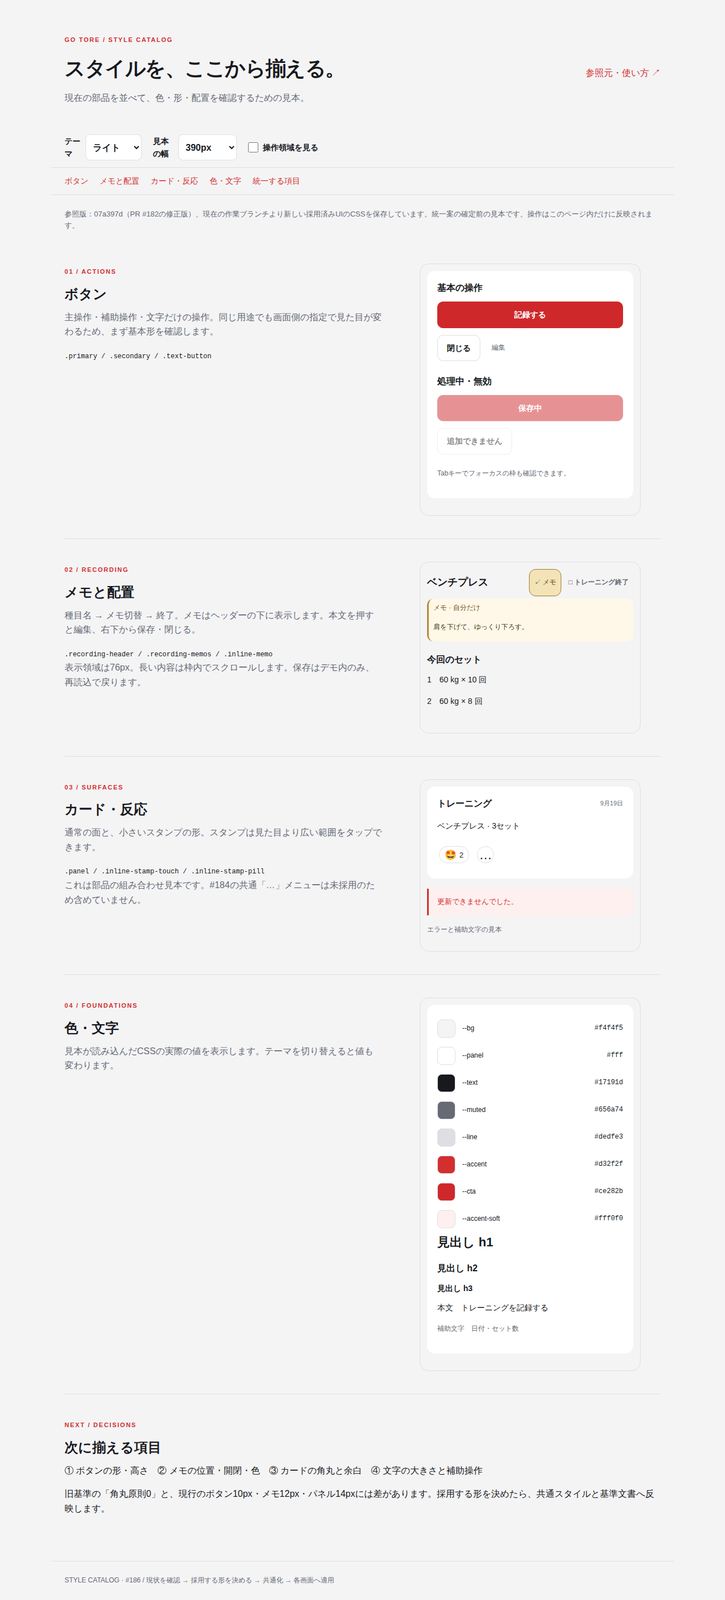
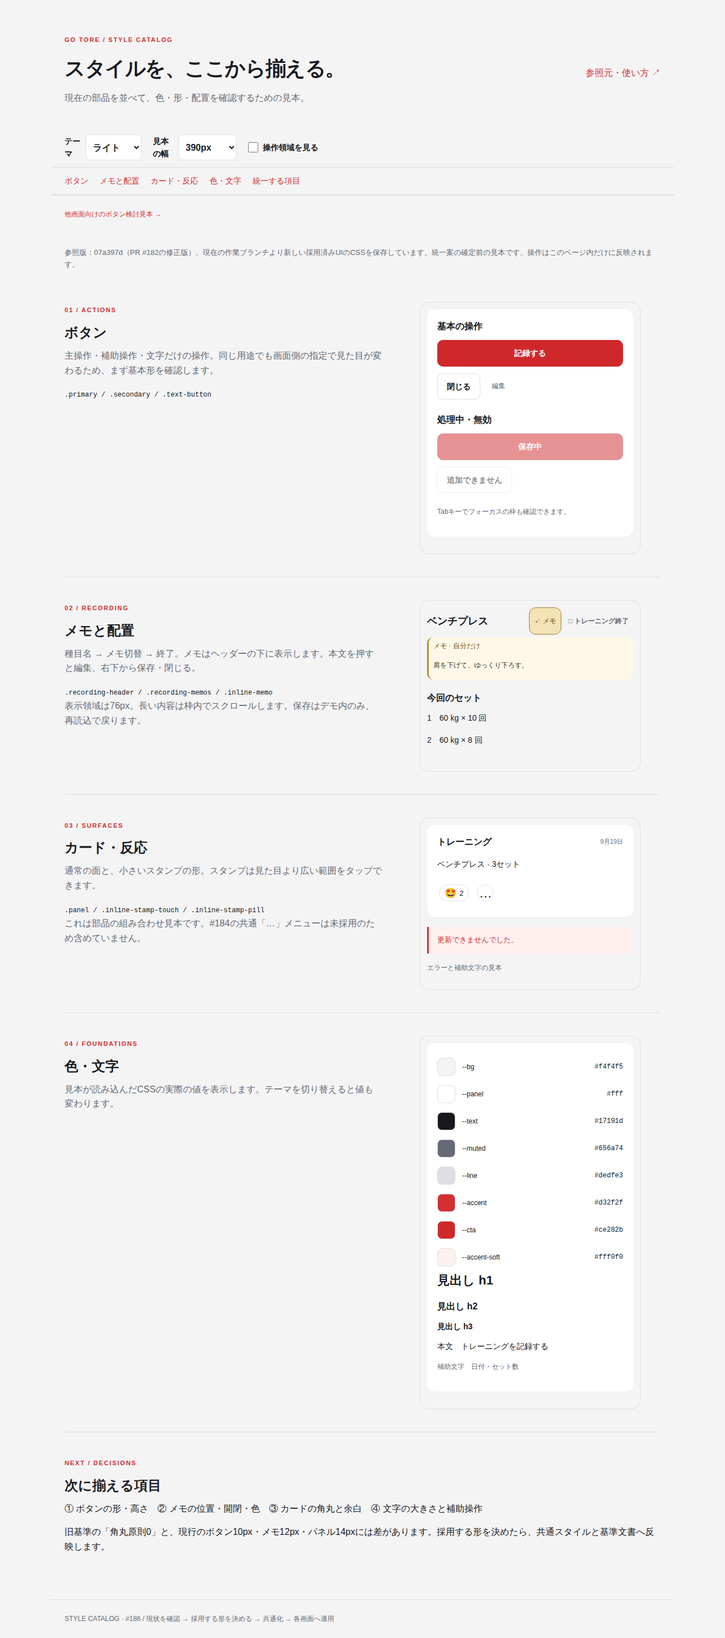
docs: メモと記録中の現行UIを統一基準の起点にする

diff --git a/docs/styles/index.html b/docs/styles/index.html
@@ -6,12 +6,12 @@
 <header class="catalog-header"><div><span class="catalog-kicker">GO TORE / STYLE CATALOG</span><h1>スタイルを、ここから揃える。</h1><p>現在の部品を並べて、色・形・配置を確認するための見本。</p></div><a href="README.md">参照元・使い方 ↗</a></header>
 <div class="catalog-tools"><label>テーマ <select id="theme"><option value="light">ライト</option><option value="dark">ダーク</option></select></label><label>見本の幅 <select id="width"><option value="390">390px</option><option value="320">320px</option><option value="430">430px</option></select></label><label><input type="checkbox" id="targets"> 操作領域を見る</label></div>
 <nav class="catalog-nav" aria-label="見本の目次"><a href="#buttons">ボタン</a><a href="#memo">メモと配置</a><a href="#cards">カード・反応</a><a href="#tokens">色・文字</a><a href="#decisions">統一する項目</a></nav>
-<p class="catalog-footer"><a href="workshop.html">提案を操作する：ボタン・メモの比較見本 →</a></p><main class="catalog-main">
+<p class="catalog-footer"><a href="workshop.html">他画面向けのボタン検討見本 →</a></p><main class="catalog-main">
 <p class="catalog-note">参照版：07a397d（PR #182の修正版）。現在の作業ブランチより新しい採用済みUIのCSSを保存しています。統一案の確定前の見本です。操作はこのページ内だけに反映されます。</p>
 <section id="buttons" class="catalog-section"><div class="catalog-description"><span class="catalog-kicker">01 / ACTIONS</span><h2>ボタン</h2><p>主操作・補助操作・文字だけの操作。同じ用途でも画面側の指定で見た目が変わるため、まず基本形を確認します。</p><code>.primary / .secondary / .text-button</code></div><div class="v2-app specimen"><div class="panel"><h2>基本の操作</h2><div class="demo-stack"><button class="primary demo-action">記録する</button><button class="secondary demo-action">閉じる</button><button class="text-button demo-action">編集</button></div><h2>処理中・無効</h2><div class="demo-stack"><button class="primary" disabled>保存中</button><button class="secondary" disabled>追加できません</button></div><p class="muted">Tabキーでフォーカスの枠も確認できます。</p><output id="action-status" aria-live="polite"></output></div></div></section>
 <section id="memo" class="catalog-section"><div class="catalog-description"><span class="catalog-kicker">02 / RECORDING</span><h2>メモと配置</h2><p>種目名 → メモ切替 → 終了。メモはヘッダーの下に表示します。本文を押すと編集、右下から保存・閉じる。</p><code>.recording-header / .recording-memos / .inline-memo</code><p>表示領域は76px。長い内容は枠内でスクロールします。保存はデモ内のみ、再読込で戻ります。</p></div><div class="v2-app specimen"><div class="recording-view"><section class="session-screen entering-sets"><div class="section-heading recording-header"><h1><button class="exercise-information" type="button">ベンチプレス</button></h1><button id="memo-toggle" class="memo-toggle" aria-pressed="true" aria-controls="recording-memos">✓ メモ</button><button class="secondary finish-training" id="finish">□ トレーニング終了</button></div><div id="recording-memos" class="recording-memos"><span class="memo-caption">メモ · 自分だけ</span><form class="inline-memo" id="memo-form"><button type="button" class="memo-text" id="memo-text" aria-label="種目メモを編集">肩を下げて、ゆっくり下ろす。</button><div id="memo-editor" hidden><textarea id="memo-input" aria-label="種目メモ" rows="2" maxlength="1000">肩を下げて、ゆっくり下ろす。</textarea><div class="memo-actions"><button type="button" class="text-button" id="memo-close">閉じる</button><button type="submit" class="text-button">保存</button></div></div></form></div><div class="demo-context"><h2>今回のセット</h2><p>1　60 kg × 10 回</p><p>2　60 kg × 8 回</p></div></section></div><output id="memo-status" aria-live="polite"></output></div></section>
 <section id="cards" class="catalog-section"><div class="catalog-description"><span class="catalog-kicker">03 / SURFACES</span><h2>カード・反応</h2><p>通常の面と、小さいスタンプの形。スタンプは見た目より広い範囲をタップできます。</p><code>.panel / .inline-stamp-touch / .inline-stamp-pill</code><p>これは部品の組み合わせ見本です。#184の共通「…」メニューは未採用のため含めていません。</p></div><div class="v2-app specimen"><article class="panel"><div class="section-heading"><h2>トレーニング</h2><span class="muted">9月19日</span></div><p>ベンチプレス · 3セット</p><div class="inline-stamp-row"><button class="inline-stamp-touch" id="reaction" aria-label="すごいを送る" aria-pressed="false"><span class="inline-stamp-pill"><span aria-hidden="true">🤩</span><span id="count">2</span></span></button><button class="inline-stamp-touch" id="people" aria-label="スタンプの送信者を確認"><span class="inline-stamp-pill inline-stamp-circle inline-stamp-more">…</span></button></div><div id="senders" hidden><p class="muted">サンプルの送信者</p><div class="stamp-person">🤩 あおい・はる</div></div></article><p class="error">更新できませんでした。</p><p class="muted">エラーと補助文字の見本</p></div></section>
 <section id="tokens" class="catalog-section"><div class="catalog-description"><span class="catalog-kicker">04 / FOUNDATIONS</span><h2>色・文字</h2><p>見本が読み込んだCSSの実際の値を表示します。テーマを切り替えると値も変わります。</p></div><div class="v2-app specimen"><div class="panel"><div id="swatches"></div><h1>見出し h1</h1><h2>見出し h2</h2><h3>見出し h3</h3><p>本文　トレーニングを記録する</p><p class="muted">補助文字　日付・セット数</p></div></div></section>
-<section id="decisions" class="catalog-decisions"><span class="catalog-kicker">NEXT / DECISIONS</span><h2>次に揃える項目</h2><p>① ボタンの形・高さ　② メモの位置・開閉・色　③ カードの角丸と余白　④ 文字の大きさと補助操作</p><p>旧基準の「角丸原則0」と、現行のボタン10px・メモ12px・パネル14pxには差があります。採用する形を決めたら、共通スタイルと基準文書へ反映します。</p></section>
+<section id="decisions" class="catalog-decisions"><span class="catalog-kicker">NEXT / DECISIONS</span><h2>次に揃える項目</h2><p>メモ・トレーニング中は現行を基準にすることで合意済み。次は、他の画面に展開するボタン・カード・文字・余白のルールを整理します。</p><p>旧基準の「角丸原則0」と、現行のボタン10px・メモ12px・パネル14pxには差があります。この範囲は現行を起点に共通化します（2026-09-21の合意）。</p></section>
 </main><footer class="catalog-footer">STYLE CATALOG · #186 / 現状を確認 → 採用する形を決める → 共通化 → 各画面へ適用</footer>
 </body></html>

diff --git a/docs/styles/workshop.html b/docs/styles/workshop.html
@@ -1,8 +1,6 @@
 <!doctype html>
 <html lang="ja"><head><meta charset="utf-8"><meta name="viewport" content="width=device-width,initial-scale=1"><title>GO TORE · スタイル検討室</title><link rel="stylesheet" href="workshop.css"><script src="workshop.js" defer></script></head>
-<body><main><header><a href="index.html">← 現行の部品見本</a><p class="eyebrow">GO TORE / DESIGN STUDY 01</p><h1>迷わず記録できる、<br>共通の形をつくる。</h1><p>ボタンとメモから揃える。赤と適度な角丸を起点にした、採用前の比較案です。</p></header>
-<section class="toolbar" aria-label="見本の設定"><label>テーマ<select id="theme"><option value="light">ライト</option><option value="dark">ダーク</option></select></label><label>メモの色<select id="memo-tone"><option value="warm">A · 黄色で区別</option><option value="neutral">B · 通常の面に統一</option></select></label><label>見本の幅<select id="width"><option value="390">390px</option><option value="320">320px</option><option value="430">430px</option></select></label></section>
+<body><main><header><a href="index.html">← 現行の部品見本</a><p class="eyebrow">GO TORE / DESIGN STUDY 01</p><h1>迷わず記録できる、<br>共通の形をつくる。</h1><p>メモ・トレーニング中の画面は現行を基準にします。以下のボタン案は、その他の画面への展開を検討する見本です。</p></header>
+<section class="toolbar" aria-label="見本の設定"><label>テーマ<select id="theme"><option value="light">ライト</option><option value="dark">ダーク</option></select></label><label>見本の幅<select id="width"><option value="390">390px</option><option value="320">320px</option><option value="430">430px</option></select></label></section>
 <section class="study"><div><p class="eyebrow">01 / ACTIONS</p><h2>色より先に、役割を揃える。</h2><p>主操作は赤。補助操作は枠。編集や閉じるは文字。削除は通常の主操作と並べず、確認画面で対象を明示します。</p><dl><dt>操作領域</dt><dd>幅・高さ48px以上</dd><dt>形</dt><dd>ボタン10px、入力10px、メモ12px</dd><dt>文字</dt><dd>本文・ボタン14px、入力16px</dd></dl><p class="note">寸法は候補値。長いラベルは折り返し、高さを伸ばします。</p></div><div class="specimen"><h3>通常</h3><div class="actions"><button class="primary sample">保存</button><button class="secondary sample">戻る</button><button class="quiet sample">編集</button></div><h3>無効・処理中</h3><div class="actions"><button class="primary" disabled>保存</button><button class="primary" disabled aria-busy="true">保存中…</button></div><h3>削除の確認</h3><p>9月20日の記録を削除しますか？<br>削除した記録は元に戻せません。</p><div class="actions"><button class="secondary sample">キャンセル</button><button class="danger sample">記録を削除</button></div><p class="note" id="button-status" role="status">見た目の見本です。記録は変更しません。</p></div></section>
-<section class="study"><div><p class="eyebrow">02 / MEMO</p><h2>覚えておくことを、<br>記録のそばに。</h2><p>Aはメモを見つけやすく、Bは画面の色数を抑えます。比較条件を揃えるため、位置と大きさは共通です。</p><p>種目メモは種目名の下、今回のメモはその下に配置。対象と「自分だけ」を表示し、セットの情報と区別します。</p><p class="note">編集はシートで試す提案です。実アプリのインライン編集から変更するかは未決。数値入力部はこの見本の対象外です。</p></div><div class="specimen"><div class="row"><h3>ベンチプレス</h3><button id="toggle" class="quiet" aria-expanded="true" aria-controls="memos">メモを隠す</button></div><div id="memos"><article class="memo"><div class="row"><span class="caption">種目メモ · 自分だけ</span><button class="quiet" data-edit="exercise">編集</button></div><p id="exercise-text">肩を下げて、ゆっくり下ろす。</p></article><article class="memo"><div class="row"><span class="caption">今回のメモ · 自分だけ</span><button class="quiet" data-edit="workout">編集</button></div><p id="workout-text">今日はフォームを優先。</p></article></div><h3>今回のセット</h3><div class="set-row"><span>1セット</span><strong>60 kg × 10 回</strong></div><div class="set-row"><span>2セット</span><strong>60 kg × 8 回</strong></div><p class="note">数値入力・セット保存の操作は現行を維持して検討します。</p><p id="memo-status" role="status"></p></div></section>
-<section class="closing"><p class="eyebrow">DECISION / 次に決めること</p><h2>まずは、この2点。</h2><ol><li>ボタンは「赤の主操作・枠の補助・文字の編集」の3段階で揃えるか。</li><li>メモはAの黄色系を残すか、Bの通常の面へ揃えるか。</li></ol><p>シート編集の採用判断は次の段階。合意後に共通スタイルと既存基準へ反映します。</p><a href="standard-proposal.md">基準全体の検討案</a> · <a href="component-decisions.md">値・状態・適用手順</a></section>
-</main><dialog id="editor" aria-labelledby="editor-title"><form id="memo-form"><div class="row"><h2 id="editor-title">メモを編集</h2><button class="quiet" type="button" id="close">閉じる</button></div><p class="note">自分だけ · デモの下書きは閉じても保持。再読込で初期化します。</p><label for="memo-input">メモ</label><textarea id="memo-input" rows="5" maxlength="1000" aria-describedby="editor-help error"></textarea><p class="note" id="editor-help">空欄で保存するとメモを消去します。</p><label class="failure-option"><input type="checkbox" id="fail">次の保存を失敗させる（見本）</label><p id="error" role="alert"></p><div class="actions"><button type="button" class="secondary" id="later">あとで続ける</button><button type="submit" class="primary" id="save">保存</button></div></form></dialog></body></html>
+<section class="closing"><p class="eyebrow">BASELINE / 合意した起点</p><h2>メモとトレーニング中は、今の形を基準に。</h2><p>2026-09-21のユーザー指定。現在の見た目・配置・開閉・その場での編集・数値入力・セット追加・終了操作を起点に共通ルールを整理します。</p><p><a href="index.html#memo">現行メモの見本を確認する →</a></p><p>メモの別配色・シート編集案は撤回しました。次はこの基準をホーム・設定などへ展開するための部品とルールを整理します。</p><a href="standard-proposal.md">基準全体の検討案</a> · <a href="component-decisions.md">合意事項と候補値</a></section></main></body></html>

diff --git a/docs/styles/workshop.js b/docs/styles/workshop.js
@@ -3,9 +3,6 @@ const byId = (id) => document.getElementById(id);
 byId("theme").addEventListener("change", (e) => {
 	root.dataset.theme = e.target.value;
 });
-byId("memo-tone").addEventListener("change", (e) => {
-	root.dataset.tone = e.target.value;
-});
 byId("width").addEventListener("change", (e) => {
 	root.style.setProperty("--preview-width", `${e.target.value}px`);
 });
@@ -14,71 +11,4 @@ document.querySelectorAll(".sample").forEach((button) => {
 		byId("button-status").textContent =
 			`「${button.textContent}」を押しました（見本）。`;
 	});
-});
-byId("toggle").addEventListener("click", () => {
-	const hidden = !byId("memos").hidden;
-	byId("memos").hidden = hidden;
-	byId("toggle").setAttribute("aria-expanded", String(!hidden));
-	byId("toggle").textContent = hidden ? "メモを表示" : "メモを隠す";
-});
-const drafts = {};
-let active = "exercise";
-let saving = false;
-const editor = byId("editor");
-document.querySelectorAll("[data-edit]").forEach((button) => {
-	button.addEventListener("click", () => {
-		active = button.dataset.edit;
-		byId("editor-title").textContent =
-			active === "exercise" ? "種目メモを編集" : "今回のメモを編集";
-		byId("memo-input").value =
-			drafts[active] ??
-			byId(`${active}-text`).dataset.value ??
-			byId(`${active}-text`).textContent;
-		byId("error").textContent = "";
-		editor.showModal();
-		byId("memo-input").focus();
-	});
-});
-byId("memo-input").addEventListener("input", (e) => {
-	drafts[active] = e.target.value;
-});
-function closeEditor() {
-	if (!saving) editor.close();
-}
-byId("close").addEventListener("click", closeEditor);
-byId("later").addEventListener("click", closeEditor);
-editor.addEventListener("cancel", (event) => {
-	if (saving) event.preventDefault();
-});
-byId("memo-form").addEventListener("submit", async (event) => {
-	event.preventDefault();
-	if (saving) return;
-	saving = true;
-	const value = byId("memo-input").value;
-	const fail = byId("fail").checked;
-	byId("error").textContent = "";
-	for (const id of ["save", "close", "later", "memo-input", "fail"])
-		byId(id).disabled = true;
-	byId("save").textContent = "保存中…";
-	byId("save").setAttribute("aria-busy", "true");
-	// 通信は行わず、保存中と失敗後の表示を比較する。
-	await new Promise((resolve) => setTimeout(resolve, 500));
-	saving = false;
-	for (const id of ["save", "close", "later", "memo-input", "fail"])
-		byId(id).disabled = false;
-	byId("save").textContent = "保存";
-	byId("save").removeAttribute("aria-busy");
-	byId("fail").checked = false;
-	if (fail) {
-		byId("error").textContent =
-			"保存できませんでした。入力は残っています。もう一度保存してください。";
-		byId("save").focus();
-		return;
-	}
-	byId(`${active}-text`).textContent = value || "メモはありません";
-	byId(`${active}-text`).dataset.value = value;
-	delete drafts[active];
-	editor.close();
-	byId("memo-status").textContent =
-		"見本に反映しました。サーバーには保存していません。";
 });

diff --git a/docs/styles/component-decisions.md b/docs/styles/component-decisions.md
@@ -1,12 +1,12 @@
 # ボタン・メモの具体案（#186 / PR #191）
 
-2026-09-21。すべて採用前。[操作できる比較見本](workshop.html)を使って判断する。正本は [既存基準](../design-system.md)。この資料の値を本番実装の確定仕様として参照しない。
+2026-09-21。ユーザー指定により、**メモとトレーニング中の画面は現行の見た目・配置・操作を基準にする**。正本は [既存基準](../design-system.md)。[現行メモの見本](index.html#memo)を参照する。
 
-## 推奨する出発点
+## 合意した出発点
 
-現行の赤と適度な角丸を維持し、役割の数を減らす。ボタンは主操作・補助・文字操作に分ける。メモはAの黄色系を推奨する。セットの数値と文章を見分けやすく、現行の見つけ方を維持できるため。ただし暗色では専用の暗い背景と明るい文字を使う。Bは色を抑えたい場合の比較候補。
+メモの色・枠・開閉・インライン編集、トレーニング中の数値入力・セット追加・終了操作を維持して、今の実装から共通ルールを整理する。先に提示したメモA/B比較とシート編集案は撤回。独立見本は現行画面の一部を抜粋したもので、記録画面全体の代替ではない。
 
-シート編集は長文でもセット一覧を押し下げずに書くための検討用。現行のインライン編集より操作が増えるため、今回の推奨に含めて自動採用しない。実際の数値入力、ソフトウェアキーボード、入力への復帰を組み合わせてから判断する。
+以下の値と[ボタン見本](workshop.html)は、その他の画面への展開を検討する候補。記録中のボタンをこの候補へ一律に置き換える承認ではない。
 
 ## 役割と候補値
 
@@ -37,14 +37,13 @@
 | 空 | メモなしと示す。空文字で再編集 | 「メモはありません」を保存内容に混ぜる |
 | 成功 | 成功応答後に本文更新・編集を閉じる | 通信結果と独立した見た目だけの成功 |
 
-独立デモは通信をせず0.5秒で結果を模擬する。下書きは種目/今回を分けてメモリ内で保持し、再読込で初期化する。本番の本人限定・1000文字・競合検知・端末への下書き保存は既存の [メモ仕様](../private-workout-memo.md) に従う。見本の省略を理由に本番の保護を削らない。
+本番の本人限定・文字数・競合検知・端末への下書き保存は既存の[メモ仕様](../private-workout-memo.md)に従う。上の状態表は他画面のフォーム整理案であり、メモ編集の方式変更を意味しない。
 
-## 配置を決める順番
+## 次の進め方
 
-1. この見本でボタンの階層とメモA/Bを判断する。
-2. メモの編集方式を実際の記録画面で比較する。開閉による数値入力位置、文字拡大、キーボード、保存後フォーカスを確認する。
-3. 合意した範囲を正本へ移す。古い「角丸原則0」と新しい適用範囲の関係を明示する。
-4. `frontend/src/styles/` と必要な共通UI部品へ移し、見本も同じ実装を参照する。個別画面から色・角丸の上書きを外す。
-5. ホーム/記録/設定で確認し、残る例外を#186で追跡する。カードの共通メニューは#184との境界を保つ。
+1. 現行のメモ・記録画面から、色・余白・角丸・操作状態の共通ルールを抽出する。
+2. ホーム・設定・管理に展開する部品を整理する。記録画面特有の密度や配置は用途別の基準として保持する。
+3. 共通化時は見た目と操作を維持し、見本も同じ共通実装を参照する。
+4. 適用後の代表画面を比較する。カードの共通メニューは#184との境界を保つ。
 
-採用記録には対象・決定・理由・確認した画面・関連コミットを残す。今回の案は未決。アプリの全画面変更、API/DB変更、基準の確定はこの比較作業に含まない。
+採用記録: 2026-09-21、ユーザー「メモとかトレーニング中のやつは今のもとにしましょう」。この合意を#186/PR #191と基準の正本に記録。その他の画面の候補値は未確定。

diff --git a/docs/styles/standard-proposal.md b/docs/styles/standard-proposal.md
@@ -10,6 +10,10 @@
 
 参照は現行カタログの07a397d、発表用のホーム/記録画像、目安箱PR #190の設定UI。最新main全体を監査済みとは扱わない。v2.cssの単純な宣言集計では角丸19・font-size38・padding59・gap22種類の表記がある。同値のpx/rem表記、複合指定、意図した例外も含むため、この数だけで不良や削減目標とは判断しない。
 
+## 最新の合意（2026-09-21）
+
+メモとトレーニング中の画面は現行を基準にする。メモA/Bとシート編集案は撤回し、既存の見た目・配置・操作から共通ルールを整理する。以下の比較候補は、それ以外の画面を検討するための資料であり、記録画面の再設計は行わない。
+
 ## 1. 最初に決める方向性
 
 | 候補 | 何を大切にするか | 見本で比べる点 |
@@ -62,18 +66,11 @@
 
 全種類について通常・押下・フォーカス・無効・処理中の見本を並べる。送信中だからと画面全体を一律に無効化せず、重複や競合する操作を各機能のルールで制限する。
 
-### メモ
+### メモ・トレーニング中（現行を基準にする）
 
-まず「何のメモか」を固定する。種目に残すメモと今回の記録のメモを混同させない。
+ユーザー指定により、現行のメモ配色・配置・開閉・その場での編集を基準にする。数値入力・セット一覧・追加・終了操作も現行を起点とする。共通化はこれらの見た目と操作を維持して行う。
 
-- 入口：種目名付近か、詳細の補助操作か。
-- 表示：常時表示/折り畳みの選択、空のときの表示、長い内容の扱い。
-- 配置：ヘッダー → メモ → セット一覧 → 数値入力という関係を見本で確認。
-- 編集：開く位置、保存/閉じるの位置、未保存を閉じたときの扱い。
-- 色：黄色をメモ専用に残すか、通常の面に揃えるか。ダークもセットで決める。
-- 入力との関係：メモの開閉でホイールや保存ボタンが予想外に移動しないこと。
-
-文章量で見た目を無理に揃えない。固定高さの内部スクロールと展開表示のどちらがよいかは、実機で読み書きして判断する。
+種目メモと今回の記録メモの保存対象、本人限定、下書き保持・復元などの既存仕様も維持する。現行値は[部品見本](index.html#memo)、合意の詳細は[採用事項](component-decisions.md)を参照する。
 
 ### カード・行・メニュー
 
@@ -105,7 +102,7 @@
 ## 6. デモで決める順番
 
 1. ボタン：同じラベルで種類・サイズ・状態を並べる。
-2. メモ：種目名・終了・セット一覧・入力の一部と組み合わせて位置を比較。
+2. メモ・記録中：現行の配置・操作を基準に、共通化で差が出ないことを確認。
 3. 記録カード：本人/仲間、スタンプ、共通…の配置を比較。
 4. 設定/目安箱：行、シート、入力、送信/失敗を確認。
 5. ホーム/記録/履歴で並べて、アプリ全体として一貫するか確認。
@@ -143,8 +140,8 @@ frontend/src/components/ui/
 - 既存の保存・共有・復元の仕様を維持する。
 - ユーザーが操作する代表画面で採用を確認したうえで、デザイン基準の正本を更新する。
 
-最初の合意対象は「方向性」「ボタン」「メモ」。その後、共通値と部品を確定して各画面へ展開する。
+メモ・記録中は現行を基準にすることで合意済み。次は他の画面へ展開する共通値と部品を整理する。
 
-## 9. 最初の比較見本
+## 9. 見本の適用範囲
 
-[ボタンとメモの比較](workshop.html)と[具体的な候補・判断理由](component-decisions.md)を追加した。赤と適度な角丸を仮の起点にし、ボタンの役割とメモの配色を先に比較する。方向性・数値・シート編集はまだ採用前であり、ユーザー判断を置き換えるものではない。
+[ボタンの検討見本](workshop.html)はその他の画面向けの候補。[現行見本](index.html)はメモ・記録中の基準を確認するための抜粋。新しいメモ配色・シート編集の比較は撤回した。

diff --git a/docs/styles/README.md b/docs/styles/README.md
@@ -34,7 +34,7 @@ http://127.0.0.1:3186/ を開きます。認証やDBは不要です。
 
 スナップショットをアプリの新しい正本にしません。今後は合意した部品だけを共通スタイルへ移し、デモもその共通スタイルを参照する構成へ更新します。
 
-## 現状の整理と決めること
+## 初回の棚卸し（合意前の検討項目）
 
 | 対象 | 参照版の実装 | 統一前に決めること |
 | --- | --- | --- |
@@ -45,7 +45,7 @@ http://127.0.0.1:3186/ を開きます。認証やDBは不要です。
 | 色 | --accentと主ボタン用--ctaを分離。メモには固定色あり | ダークテーマでのメモ配色、赤の用途 |
 | 文字 | v2本文14px、基本見出し22/16/14px。画面側の指定あり | 画面固有値と共通値の整理 |
 
-旧基準には角丸原則0等の記述があります。上表は現状の記録であり、旧基準との矛盾を解消した採用案ではありません。現行の差分を隠したり自動的に基準へ戻したりせず、デモで採用を確認してから基準を更新します。
+旧基準には角丸原則0等の記述があります。上表は初回の棚卸しです。2026-09-21にメモ・記録中は現行を基準にすると合意し、正本へ追記しました。現行の差分を隠したり自動的に基準へ戻したりせず、デモで採用を確認してから基準を更新します。
 
 ## 次の進め方
 
@@ -69,12 +69,10 @@ http://127.0.0.1:3186/ を開きます。認証やDBは不要です。
 
 リポジトリルートで `make install-frontend` 後、`node docs/styles/check.cjs` を実行します。Chromiumが未準備の場合はfrontendで `bunx playwright install chromium` を実行してください。320/390/430/1280px、テーマ、メモ編集、反応の操作を確認し、preview.pngを更新します。
 
-## ボタンとメモを具体的に比べる
+## 最新の合意と検討見本
 
-[操作できる比較見本](workshop.html) / [候補値・使い分け・適用手順](component-decisions.md)
+2026-09-21のユーザー指定により、メモ・トレーニング中は現行の見た目・配置・操作を基準にします。[合意事項](component-decisions.md)を参照してください。メモの別配色・シート編集案は撤回しました。
 
-黄色系メモと通常の面を同じ配置で切り替え、ライト/ダーク、ボタンの状態、編集シートの下書き保持・保存失敗・再試行を試せます。採用前の案で、再読込するとデータは初期化されます。数値入力は変更対象に含めていません。
+[他画面向けのボタン検討見本](workshop.html) / [明色画像](workshop-preview.png) / [暗色画像](workshop-dark.png)。検証は `node docs/styles/workshop-check.cjs`（4幅・両テーマ・文字200%・ボタン操作）。現行メモの操作確認は `node docs/styles/check.cjs` です。
 
-追加検証は `node docs/styles/workshop-check.cjs`。Chromiumで4幅・両テーマ・メモ2案・文字200%・編集の対象分離・下書き保持・失敗再試行・空欄化を確認します。画像は [明色](workshop-preview.png) / [暗色](workshop-dark.png)。実機Safari・ソフトウェアキーボード・本番データ保存は未検証です。
-
-継続先は [Draft PR #191](https://github.com/ezofroger-in-hokudai/gotore/pull/191)。このHTMLはdocs配下の独立見本のため、通常のアプリのVercelプレビューには含まれません。上記のローカル配信で `/workshop.html` を開いてください。
+継続先は [Draft PR #191](https://github.com/ezofroger-in-hokudai/gotore/pull/191)。独立HTMLのためVercelのアプリプレビューには含まれません。上記ローカル配信で `/workshop.html` を開いてください。

diff --git a/progress.md b/progress.md
@@ -2472,3 +2472,9 @@
 - 検証: Chromium320/390/430/1280px、両テーマ・メモ両配色の横はみ出し、文字200%、編集対象分離、閉じた下書きの保持、失敗/再試行、空欄化、開閉が成功。明色の画像を目視確認。JS構文・git diff --check成功。比較用文書・独立デモのためアプリの先行テストやmake checkは未実施。操作検証を実装後に追加した。
 - 未解決事項: 候補値・配色・シート編集は未採用。実機Safariとソフトウェアキーボードは未確認。メモリ内の模擬保存は本番の下書き永続化・競合保護を代替しない。
 - 次のアクション: PR #191に見本を掲載。ボタンの階層とメモA/Bを確認し、編集方式は実記録画面との組み合わせで評価してから正本と共通部品に反映する。
+
+## 2026-09-21 メモ・トレーニング中は現行を基準にする合意（#186）
+- 変更内容・目的: ユーザー「メモとかトレーニング中のやつは今のもとにしましょう」に従い、現行の見た目・配置・操作を基準にすると正本へ追記。別配色・シート編集のデモと比較判断を撤回し、他画面向けボタンの検討に範囲を整理した。
+- 影響範囲・関連ファイル: docs/design-system.md、docs/styles/の資料・見本・操作検証・画像、task.md。アプリのメモ・数値入力・保存処理には変更なし。
+- 検証: 現行デモと修正した検討見本のChromium320/390/430/1280px・両テーマ・対象操作が成功。検討見本の文字200%も成功。git diff --check確認。文書・独立見本の修正につき先行アプリテスト・make checkは対象外。
+- 未解決事項・次のアクション: 現行から共通ルールを抽出し、ホーム・設定・管理へ展開する値と部品を整理する。その他の候補は未採用。PR #191を同方針に更新する。

diff --git a/docs/design-system.md b/docs/design-system.md
@@ -4,6 +4,12 @@
 
 [画面見本](design-preview.html) / [画像](images/design-templates.png) / [短い文言のルール](ui-copy.md)
 
+## 2026-09-21の適用方針（#186）
+
+ユーザー合意により、メモとトレーニング中の画面は現在の見た目・配置・操作を統一基準の起点にする。メモの開閉・インライン編集、数値入力・セット追加・終了操作を維持し、実装から共通ルールを整理する。後述の古い「角丸原則0」「初期表示で折り畳まず」等を根拠に現行を旧デザインへ戻さない。この範囲は本追記を優先する。
+
+[現行部品の抜粋](styles/index.html) / [合意事項と他画面向けの候補](styles/component-decisions.md)。メモの別配色・シート編集の提案は撤回。その他の画面に適用する具体値は引き続き検討する。
+
 ## 基本
 
 - スマートフォンの縦画面・片手操作を基準にする。主操作を見つけやすく、指で押しやすくする。

diff --git a/task.md b/task.md
@@ -491,4 +491,4 @@
 - 目的: 画面追加ごとの見た目・配置・操作のばらつきを防ぐ。
 - 主な実装内容: 現行デモ、統一基準の検討案、合意した部品・状態・画面配置と共通スタイルへの対応。
 - 完了条件: ユーザーが採用案を選び、基準と共通実装・レビュー手順が整合する。
-- 備考: docs/186-design-standardとDraft PRで継続。現行の棚卸し・検討案・ボタン/メモの操作できる比較見本をPR #191で更新。アプリへの適用は未実施。
+- 備考: docs/186-design-standardとDraft PRで継続。PR #191で継続。2026-09-21にメモ・記録中は現行の見た目・配置・操作を基準にすると合意。別配色・シート編集案を撤回し、他画面へ展開する共通ルールを整理する。アプリへの適用は未実施。
